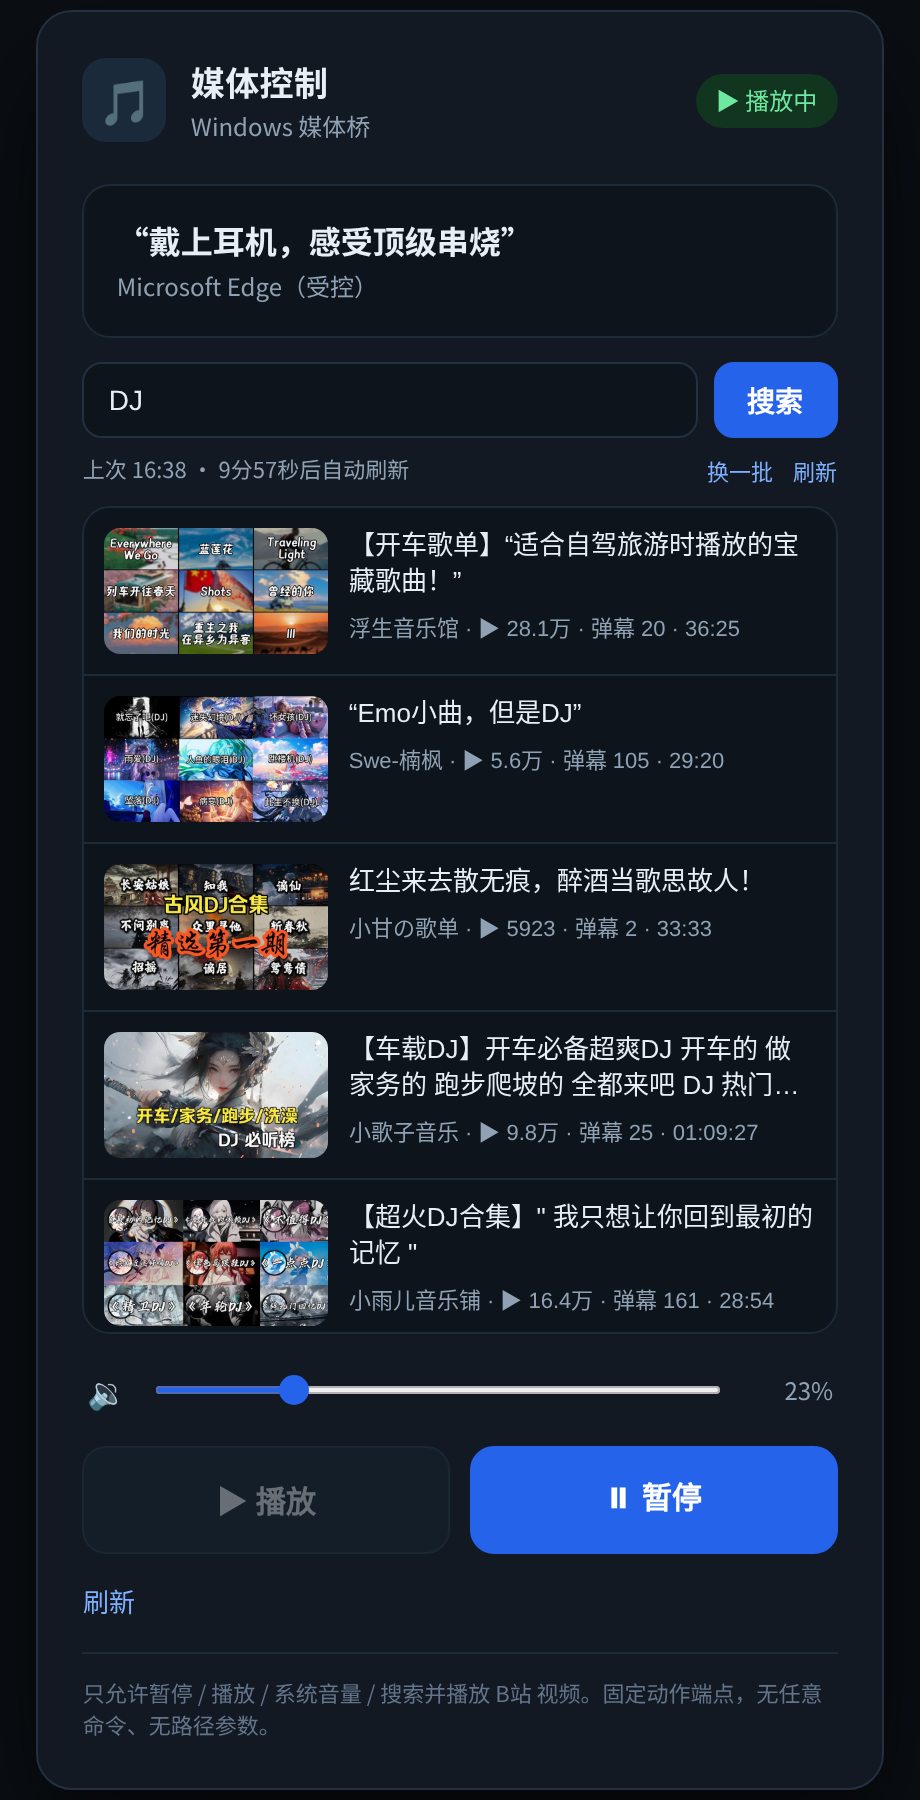
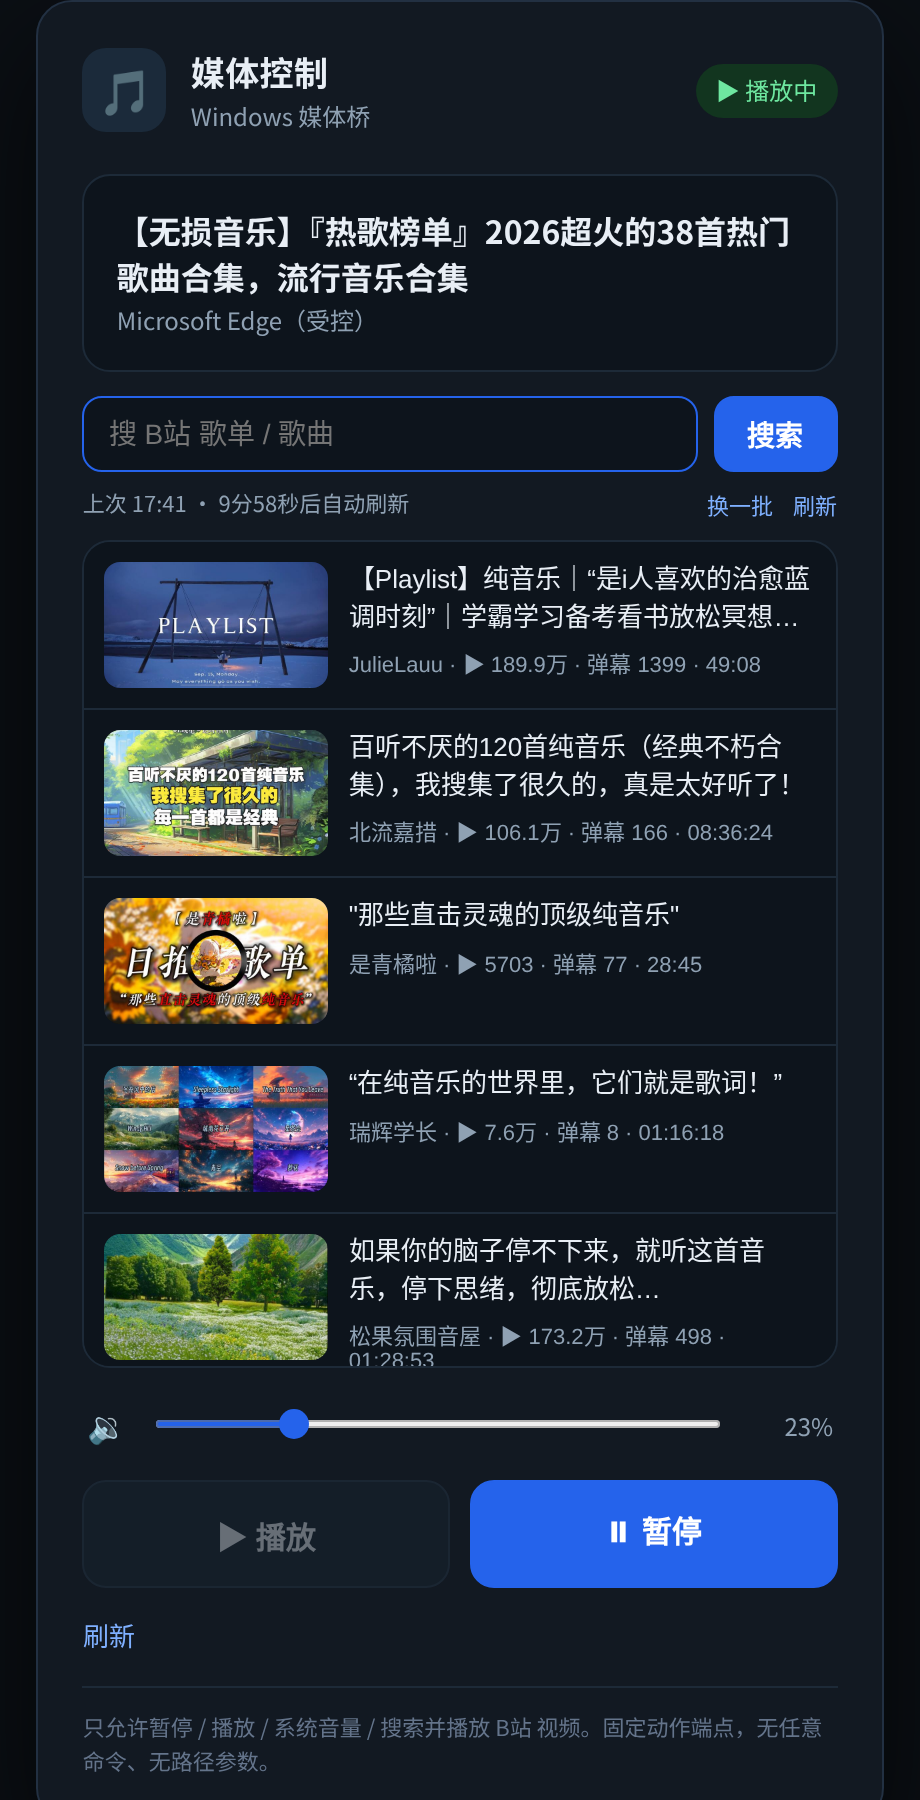
Keep search box empty on load; refresh screenshot

diff --git a/server/app.py b/server/app.py
@@ -539,8 +539,7 @@ async function loadVideos(force, silent){
     const u = (d.tab || {}).url || '';
     const m = u.match(/[?&]keyword=([^&]+)/);
     if(m){
-      try { $('q').value = decodeURIComponent(m[1].replace(/\+/g, ' ')); } catch(e) {}
-      lastQuery = $('q').value.trim();
+      try { lastQuery = decodeURIComponent(m[1].replace(/\+/g, ' ')).trim(); } catch(e) { lastQuery = ''; }
       const pm = u.match(/[?&]page=(\d+)/);
       if(pm) searchPage = Math.max(1, parseInt(pm[1], 10) || 1);
     }
